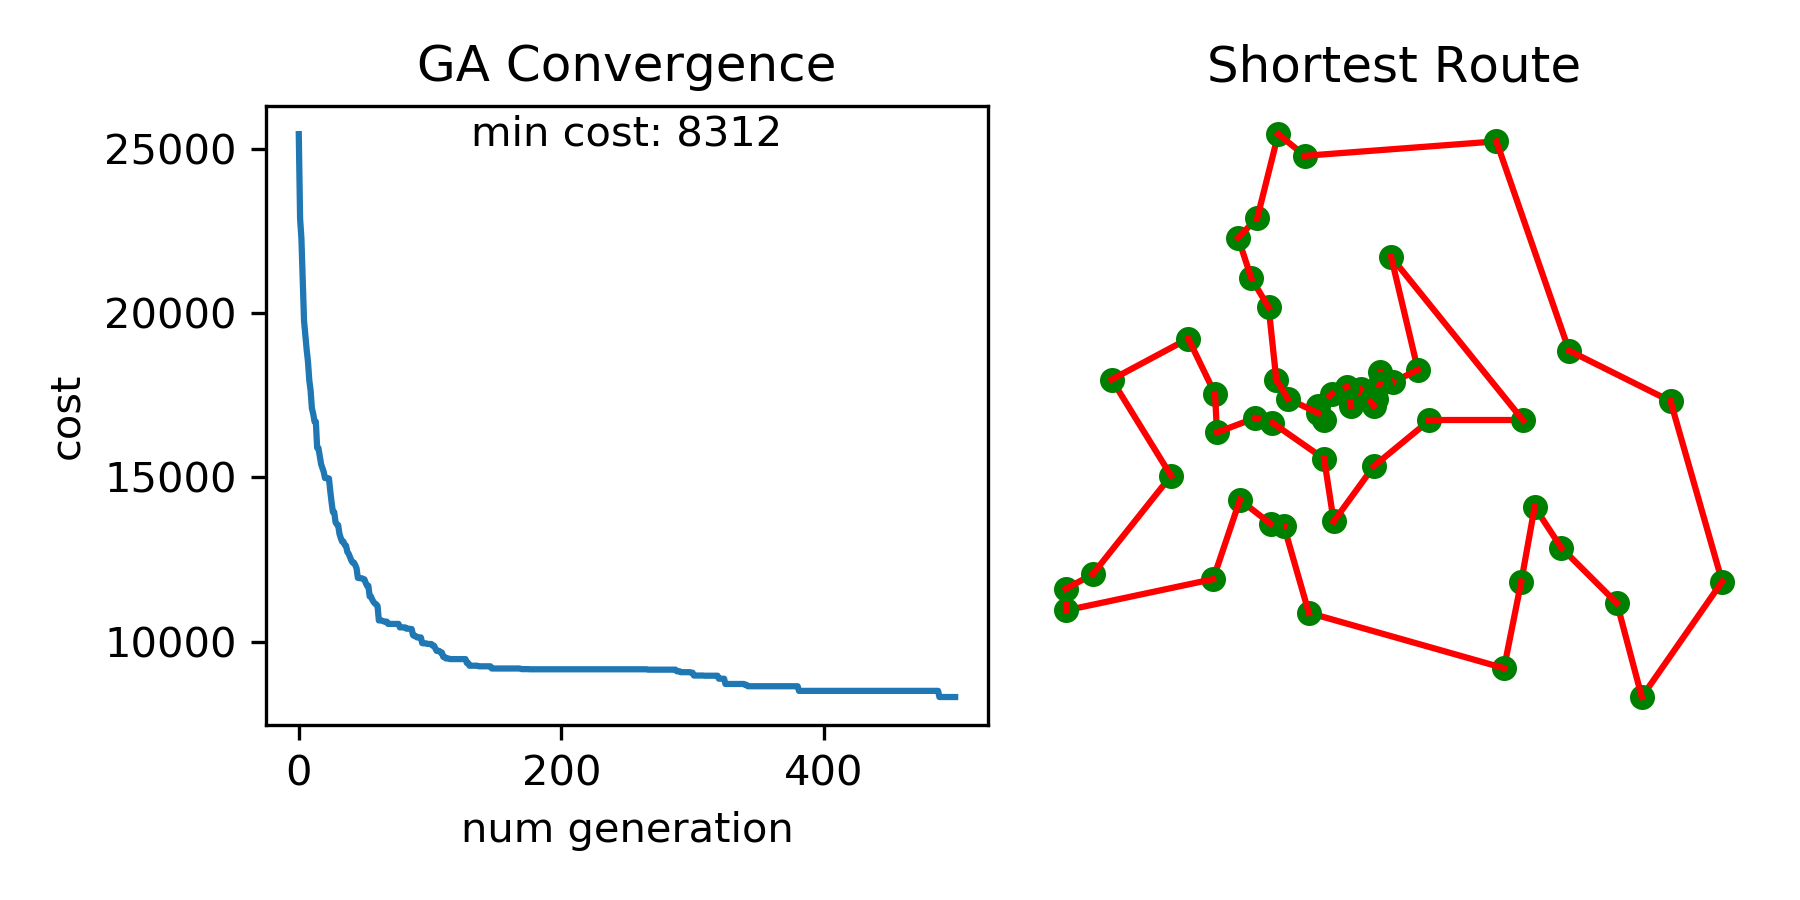
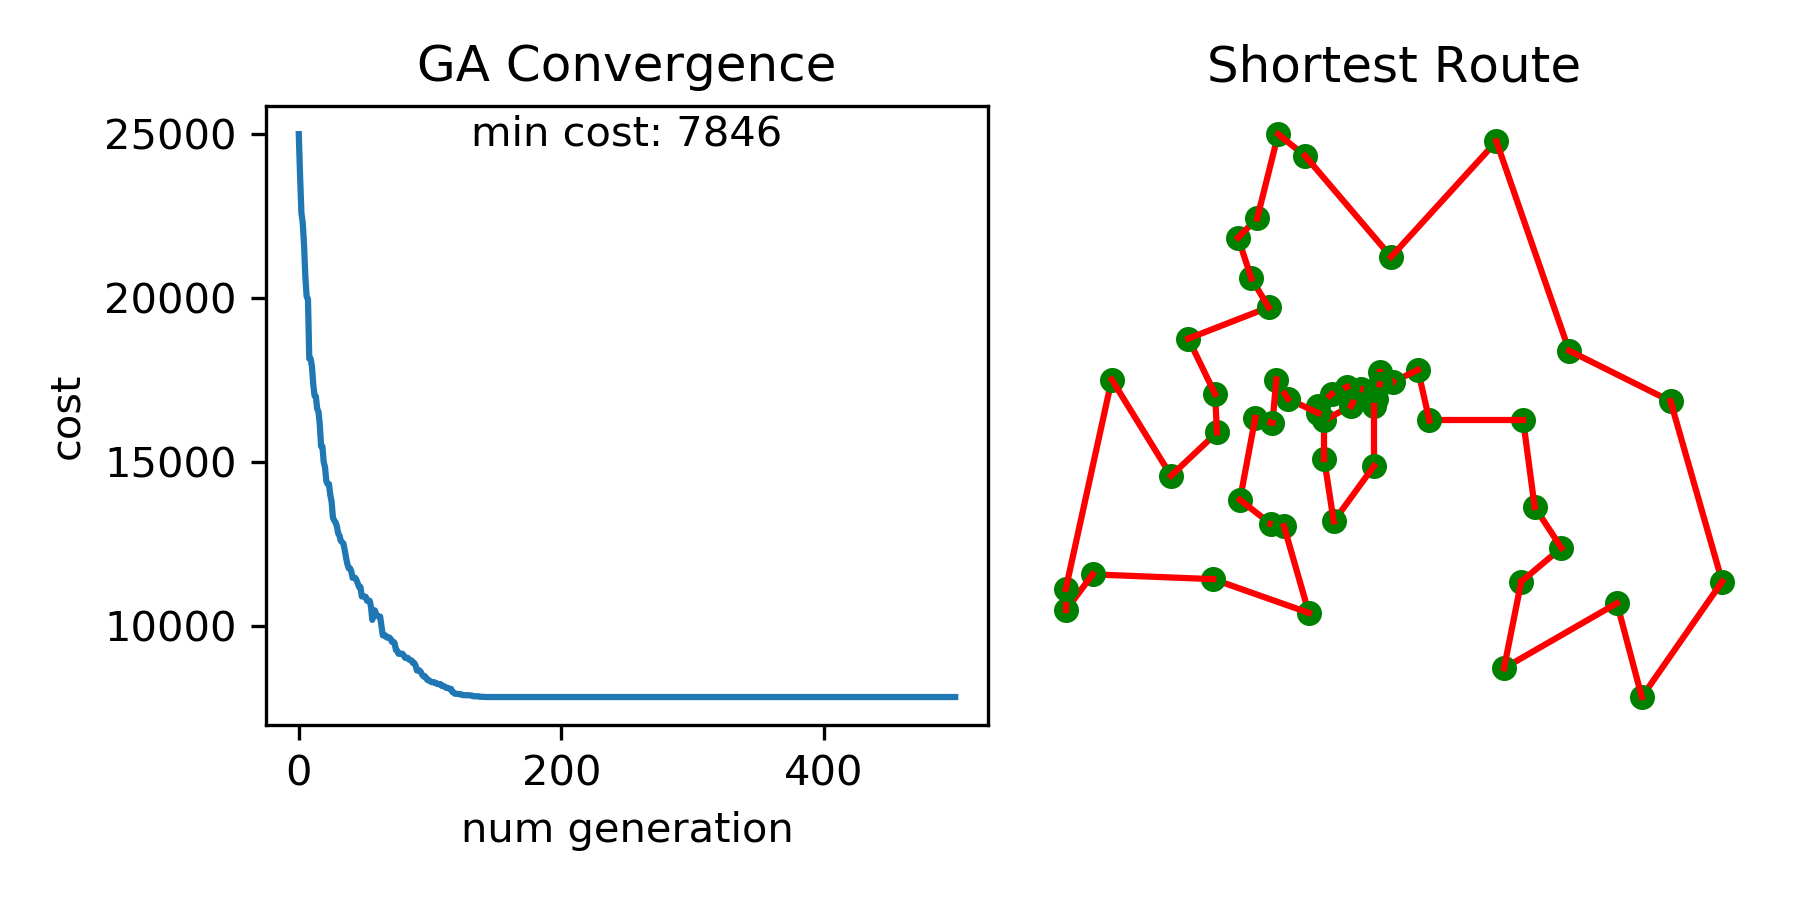
add some GA and Warm up Mutation

diff --git a/ga/ga.py b/ga/ga.py
@@ -1,5 +1,6 @@
 from sys import maxsize
 from time import time
+from copy import deepcopy
 
 from ga.base import Population
 
@@ -59,7 +60,7 @@ class GeneticAlgorithm(object):
         if self.verbose:
             print(
                 "Evolution finished after {} generations in {} s".format(self.num_generation,
-                                                                                      total_time))
+                                                                         total_time))
             print("Minimum travelling cost {}".format(self.history['best_cost']))
 
         self.history['generations'] = self.num_generation
@@ -67,6 +68,29 @@ class GeneticAlgorithm(object):
         self.history['best_individual'] = self.population.get_fittest()
 
         return self.history
+
+
+class SimpleGeneticAlgorithm(GeneticAlgorithm):
+    """
+    Simple Genetic algorithm
+    """
+
+    def evolve(self):
+        new_population = Population([])
+        pop_size = self.population_size
+
+        # Crossover
+        for _ in range(0, pop_size):
+            parent_1, parent_2 = self.select_fn(self.population)
+            child1, child2 = self.crossover_fn(parent_1, parent_2)
+            new_population.add(child1)
+            new_population.add(child2)
+
+        # Mutation
+        for i in range(0, pop_size):
+            self.mutate_fn(new_population[i])
+
+        self.population = new_population
 
 
 class ElitistReserveGeneticAlgorithm(GeneticAlgorithm):
@@ -106,8 +130,66 @@ class ElitistReserveGeneticAlgorithm(GeneticAlgorithm):
         self.population = new_population
 
 
+class SteadyGeneticAlgorithm(GeneticAlgorithm):
+    """
+    Steady GA that choose the best two from p1, p2, c1, c2 after the crossover,
+    """
+
+    def evolve(self):
+        new_population = Population([])
+        pop_size = self.population_size
+
+        # Crossover
+        for _ in range(0, pop_size):
+            parent_1, parent_2 = self.select_fn(self.population)
+            child1, child2 = self.crossover_fn(parent_1, parent_2)
+            small_group = [parent_1, parent_2, child1, child2]
+            child1, child2 = sorted(small_group, reverse=True)[0:2]
+            new_population.add(child1)
+            new_population.add(child2)
+
+        # Mutation
+        for i in range(0, pop_size):
+            self.mutate_fn(new_population[i])
+
+        self.population = new_population
+
+
+class SelectDownToSizeGeneticAlgorithm(GeneticAlgorithm):
+    """
+    Select Down To Size Genetic algorithm
+    """
+
+    def evolve(self):
+        raise NotImplemented
+
+
+class LonelyMutateGeneticAlgorithm(GeneticAlgorithm):
+    """
+    Lonely Mutate Genetic algorithm, No crossover will be performed
+    """
+
+    def evolve(self):
+        new_population = Population([])
+        pop_size = self.population_size
+
+        # Mutation
+        for i in range(0, pop_size):
+            old_one = self.population[i]
+            new_one = deepcopy(old_one)
+            self.mutate_fn(new_one)
+            if old_one.fitness >= new_one.fitness:
+                new_population.add(old_one)
+            else:
+                new_population.add(new_one)
+        self.population = new_population
+
+
 name2ga = {
-    'ElitistReserveGeneticAlgorithm': ElitistReserveGeneticAlgorithm
+    'SimpleGeneticAlgorithm': SimpleGeneticAlgorithm,
+    'ElitistReserveGeneticAlgorithm': ElitistReserveGeneticAlgorithm,
+    'SteadyGeneticAlgorithm': SteadyGeneticAlgorithm,
+    'LonelyMutateGeneticAlgorithm': LonelyMutateGeneticAlgorithm,
 }
 
 
@@ -119,3 +201,9 @@ def get_ga(args, **kwargs):
     GA = name2ga[ga_type]
     if ga_type == 'ElitistReserveGeneticAlgorithm':
         return GA(elitism_ratio=args.er, **kwargs)
+    elif ga_type == 'SteadyGeneticAlgorithm':
+        return GA(**kwargs)
+    elif ga_type == 'SimpleGeneticAlgorithm':
+        return GA(**kwargs)
+    elif ga_type == 'LonelyMutateGeneticAlgorithm':
+        return GA(**kwargs)

diff --git a/ga/operation/mutation.py b/ga/operation/mutation.py
@@ -1,4 +1,5 @@
 from random import random
+from math import sqrt
 
 from utils.func import get_k_idx
 
@@ -68,10 +69,45 @@ class FlipInverseMutation(GAMutation):
                 mutator_i += 2
 
 
+class WarmUpFlipInverseMutation(GAMutation):
+    def __init__(self, mutation_rate, warm_up=800, decay=1000):
+        super().__init__(mutation_rate)
+        self.warm_up = warm_up
+        self.step = 1
+        self.decay = decay
+
+    def adjust_mutation_rate(self):
+        mutation_rate = self.mutation_rate
+        i = self.step / self.decay
+        warm_up = self.warm_up
+        self.mutation_rate = mutation_rate * min(1. / sqrt(i), i / (warm_up * sqrt(warm_up)))
+
+    def mutate(self, individual):
+        num_genes = len(individual.genes)
+        mutator_t = self.mutation_rate * num_genes
+        mutator_i = 0
+        while mutator_i < mutator_t:
+            if random() < 0.5:
+                idx1, idx2 = get_k_idx(0, max_val=num_genes)
+                individual.swap(idx1, idx2)
+                mutator_i += 4
+            else:
+                start_at, finish_at = get_k_idx(0, num_genes, k=2, sort=True)
+                while start_at < finish_at:
+                    t = individual.genes[start_at]
+                    individual.genes[start_at] = individual.genes[finish_at]
+                    individual.genes[finish_at] = t
+                    start_at += 1
+                    finish_at -= 1
+                mutator_i += 2
+        self.step += 1
+
+
 name2mutation = {
     'FlipBitMutation': FlipBitMutation,
     'InverseMutation': InverseMutation,
     'FlipInverseMutation': FlipInverseMutation,
+    'WarmUpFlipInverseMutation': WarmUpFlipInverseMutation,
 }
 
 
@@ -81,4 +117,6 @@ def get_mutation(args):
         raise ValueError('Only support mutation type: %s' ','.join(list(name2mutation.keys())))
     print('Using Mutation: %s' % mutation_type)
     Mutation = name2mutation[mutation_type]
+    if mutation_type == 'WarmUpFlipInverseMutation':
+        return Mutation(mutation_rate=args.mr, warm_up=args.warm_up, decay=args.decay)
     return Mutation(args.mr)

diff --git a/main.py b/main.py
@@ -75,11 +75,11 @@ def args_parser():
                         help='Data containing the geographical coordinates of cities')
 
     # General GA
-    parser.add_argument('--ga_type', type=str, default='ElitistReserveGeneticAlgorithm',
+    parser.add_argument('--ga_type', type=str, default='SteadyGeneticAlgorithm',
                         help='Specify which GA algorithm to use')
     parser.add_argument('--no_verbose', dest='verbose', action='store_false',
                         help='Print out information or not')
-    parser.add_argument('--pop_size', type=int, default=200, help='Population size')
+    parser.add_argument('--pop_size', type=int, default=300, help='Population size')
     parser.add_argument('--n_gen', type=int, default=500, help='Number of equal generations before stopping')
     parser.add_argument('--print_every', type=int, default=10, help='Interval to print cost')
     parser.add_argument('--er', type=float, default=0.5, help='Elitism keeping rate')
@@ -93,9 +93,11 @@ def args_parser():
     parser.add_argument('--base', type=float, default=0.5, help="ExponentialRankingSelection's base")
 
     # Mutation
-    parser.add_argument('--mutation_type', type=str, default='FlipInverseMutation',
+    parser.add_argument('--mutation_type', type=str, default='WarmUpFlipInverseMutation',
                         help='Specify which mutation strategy to use')
     parser.add_argument('--mr', type=float, default=0.02, help='Mutation rate')
+    parser.add_argument('--warm_up', type=int, default=800, help="WarmUpFlipInverseMutation's warm up step")
+    parser.add_argument('--decay', type=float, default=8000, help="WarmUpFlipInverseMutation's decay step")
 
     # Crossover
     parser.add_argument('--crossover_type', type=str, default='TwoPointOrderedCrossover',
